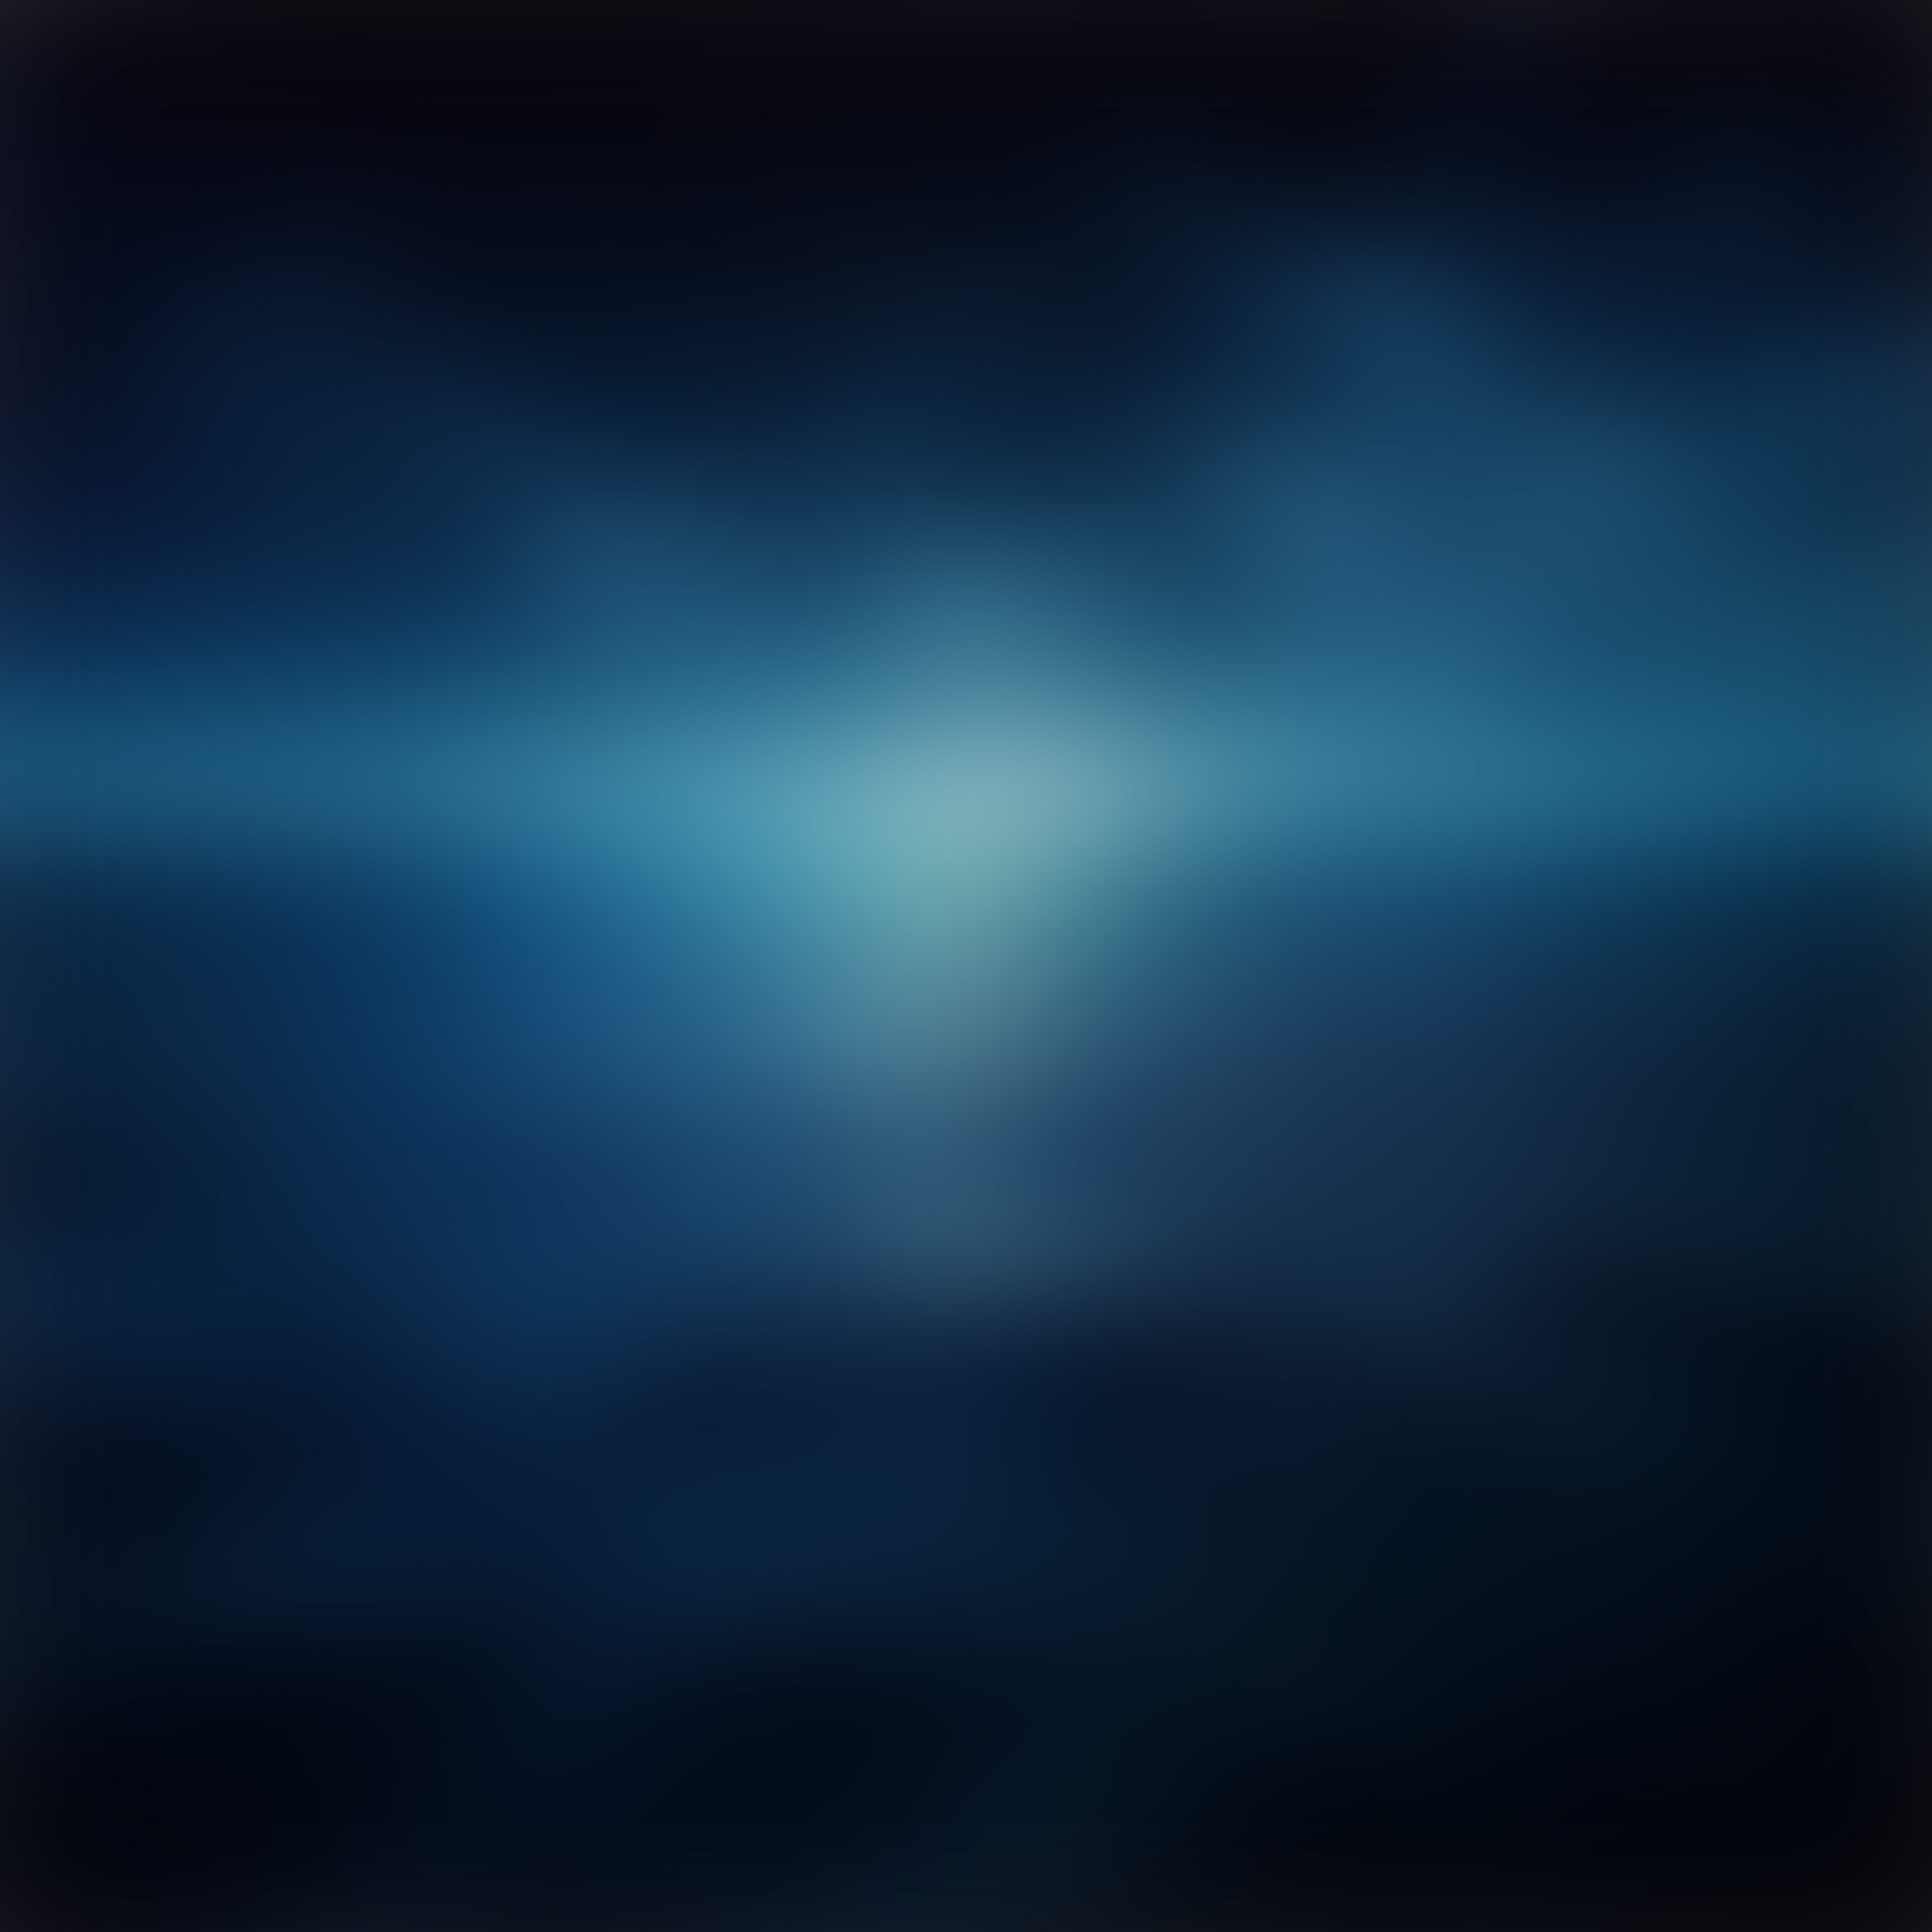
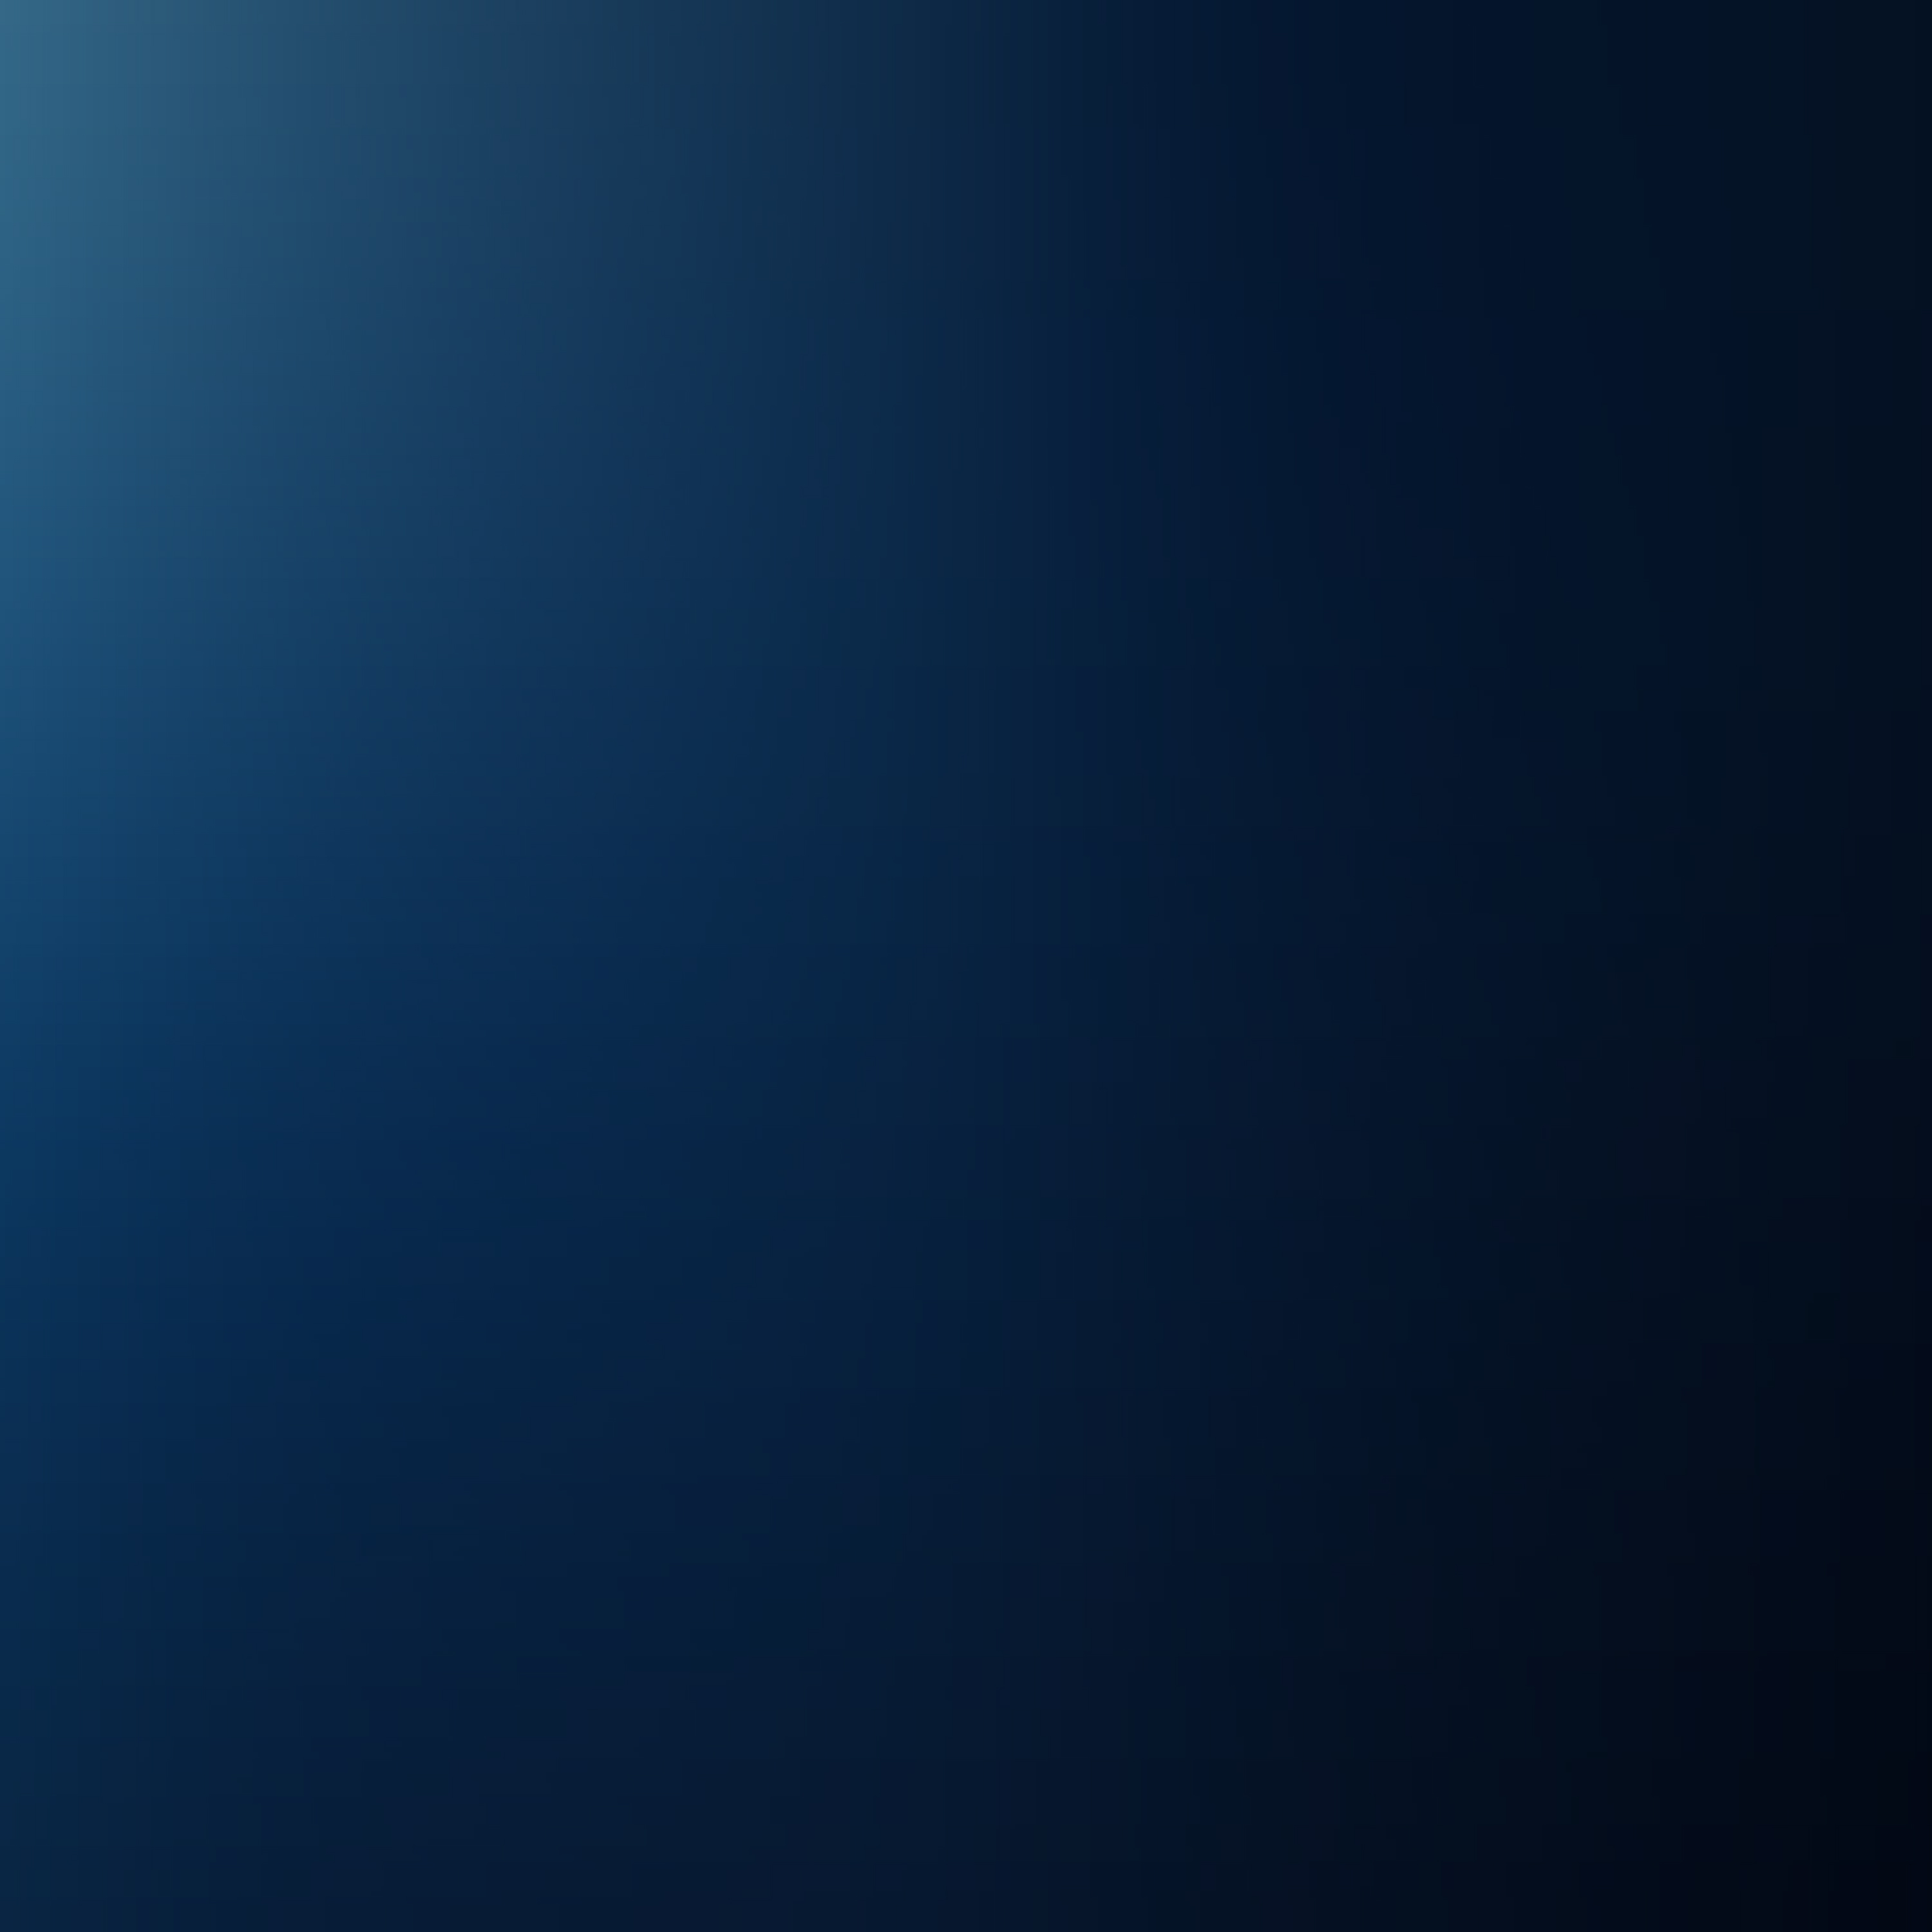
WIP | Project Structure Optimization | WIP

diff --git a/features/Timeline/HourStrip.tsx b/features/Timeline/HourStrip.tsx
@@ -34,6 +34,9 @@ import {
 } from '@/features/Timeline/constants';
 import { createStyles } from '@/features/Timeline/HourStrip.styles';
 
+const SIDE_PAD_ICON_HIDDEN_OFFSET = 10;
+const SIDE_PAD_ICON_REVEAL_DISTANCE = TIMELINE_EDGE_PULL_MAX - SIDE_PAD_ICON_HIDDEN_OFFSET;
+
 type TimelineHourStripProps = {
   x: SharedValue<number>;
   edgePull: SharedValue<number>;
@@ -191,13 +194,29 @@ function TimelineHourStripComponent({
     transform: [{ translateX: -x.value + edgePull.value }],
   }));
 
+  const leftSidePadIconStyle = useAnimatedStyle(() => ({
+    opacity: clamp(
+      (edgePull.value - SIDE_PAD_ICON_HIDDEN_OFFSET) / SIDE_PAD_ICON_REVEAL_DISTANCE,
+      0,
+      1
+    ),
+  }));
+
+  const rightSidePadIconStyle = useAnimatedStyle(() => ({
+    opacity: clamp(
+      (-edgePull.value - SIDE_PAD_ICON_HIDDEN_OFFSET) / SIDE_PAD_ICON_REVEAL_DISTANCE,
+      0,
+      1
+    ),
+  }));
+
   return (
     <GestureDetector gesture={pan}>
       <View style={styles.timelineViewport}>
         <Animated.View style={[styles.timelineContent, { width: timelineWidth }, animatedStyle]}>
 
           <View style={[styles.sidePad, styles.sidePadLeft, { width: sidePad }]}>
-            <Pressable onPress={onNavigateDayBackward} style={[styles.navBlock, styles.navBlockLeft]}>
+            <Pressable onPress={onNavigateDayBackward} style={[styles.navBlock, styles.navBlockLeft, { minWidth: sidePad * 2 }]}>
               <View style={styles.navBlockIconBox}>
                 <Arrow1
                   style={[styles.navArrow, styles.navArrowLeft]}
@@ -205,6 +224,23 @@ function TimelineHourStripComponent({
                 />
               </View>
             </Pressable>
+            <Animated.View
+              pointerEvents="none"
+              style={[styles.sidePadIconBox, { right: sidePad + 10 }, leftSidePadIconStyle]}
+            >
+              <Arrow1
+                style={[styles.navArrow, styles.navArrowLeft]}
+                fill={theme.text.warning}
+              />
+              <Arrow1
+                style={[styles.navArrow, styles.navArrowLeft]}
+                fill={theme.text.warning}
+              />
+              <Arrow1
+                style={[styles.navArrow, styles.navArrowLeft]}
+                fill={theme.text.warning}
+              />
+            </Animated.View>
           </View>
 
           {cells.map((cell) => (
@@ -246,7 +282,7 @@ function TimelineHourStripComponent({
           ))}
 
           <View style={[styles.sidePad, styles.sidePadRight, { width: sidePad }]}>
-            <Pressable onPress={onNavigateDayForward} style={[styles.navBlock, styles.navBlockRight]}>
+            <Pressable onPress={onNavigateDayForward} style={[styles.navBlock, styles.navBlockRight, { minWidth: sidePad * 2 }]}>
               <View style={styles.navBlockIconBox}>
                 <Arrow1
                   style={styles.navArrow}
@@ -254,6 +290,23 @@ function TimelineHourStripComponent({
                 />
               </View>
             </Pressable>
+            <Animated.View
+              pointerEvents="none"
+              style={[styles.sidePadIconBox, { left: sidePad + 10 }, rightSidePadIconStyle]}
+            >
+              <Arrow1
+                style={[styles.navArrow]}
+                fill={theme.text.warning}
+              />
+              <Arrow1
+                style={[styles.navArrow]}
+                fill={theme.text.warning}
+              />
+              <Arrow1
+                style={[styles.navArrow]}
+                fill={theme.text.warning}
+              />
+            </Animated.View>
           </View>
         </Animated.View>
       </View>

diff --git a/features/Cities/Cities.tsx b/features/Cities/Cities.tsx
@@ -29,6 +29,11 @@ import IconDelete1 from '@/assets/images/icon--delete-1.svg';
 import IconNotification2 from '@/assets/images/icon--notification-2.svg';
 import IconNotificationsMultiple from '@/assets/images/icon--notifications-multiple-1.svg';
 
+import IconDay from '@/assets/images/icon--day.svg';
+import IconNight from '@/assets/images/icon--night.svg';
+import IconMorning from '@/assets/images/icon--morning.svg';
+import IconEvening from '@/assets/images/icon--evening.svg';
+
 import IconAddCity from '@/assets/images/icon--cities--outlined.svg';
 import { createStyles } from './styles';
 
@@ -106,6 +111,32 @@ function getTimezoneOffset(timezone: string, sameLabel: string): string {
   const prefix = diffMinutes < 0 ? '-' : '+';
 
   return `${prefix}${wholeHours}:${mins.toString().padStart(2, '0')}`;
+}
+
+type DayPhase = 'morning' | 'day' | 'evening' | 'night';
+
+function getDayPhaseForTimezone(timezone: string): DayPhase {
+  const parts = new Intl.DateTimeFormat('en-US', {
+    timeZone: timezone,
+    hour: '2-digit',
+    hour12: false,
+  }).formatToParts(new Date());
+
+  const hour = parseInt(parts.find((part) => part.type === 'hour')?.value || '0', 10);
+
+  if (hour >= 5 && hour < 12) {
+    return 'morning';
+  }
+
+  if (hour >= 12 && hour < 18) {
+    return 'day';
+  }
+
+  if (hour >= 18 && hour < 22) {
+    return 'evening';
+  }
+
+  return 'night';
 }
 
 export default function Cities() {
@@ -227,6 +258,16 @@ export default function Cities() {
   ) => {
     const isActive = options?.isActive;
     const canDrag = Boolean(options?.draggable && sortState.cityOrder === 'none');
+    const dayPhase = getDayPhaseForTimezone(city.tz);
+
+    const TimePeriodIcon =
+      dayPhase === 'morning'
+        ? IconMorning
+        : dayPhase === 'day'
+          ? IconDay
+          : dayPhase === 'evening'
+            ? IconEvening
+            : IconNight;
 
     return (
       <Pressable
@@ -260,6 +301,12 @@ export default function Cities() {
             </Pressable>
           </Animated.View>
 
+          <View style={styles.cityItemTimePeriodIcon}>
+            <TimePeriodIcon
+              style={styles.cityItemTimePeriodIconSvg}
+              fill={theme.text.primary}
+            />
+          </View>
           <View style={styles.cityInfo}>
             <Text style={styles.cityName}>
               {getCityDisplayName(city, localizedCityNames[city.cityId])}

diff --git a/app/_layout.tsx b/app/_layout.tsx
@@ -2,7 +2,7 @@ import { useEffect } from 'react';
 import 'react-native-reanimated';
 import { Stack } from 'expo-router';
 import { StatusBar } from 'expo-status-bar';
-import { ImageBackground, Text, TextInput } from 'react-native';
+import { ImageBackground, Text, TextInput, View } from 'react-native';
 import { useFonts } from 'expo-font';
 import * as SplashScreen from 'expo-splash-screen';
 
@@ -66,15 +66,28 @@ function AppShell() {
       style={{ flex: 1 }}
       resizeMode="cover"
     >
-      <ThemeProvider value={navigationTheme}>
-        <Stack>
-          <Stack.Screen
-            name="(tabs)"
-            options={{ headerShown: false }}
-          />
-        </Stack>
-        <StatusBar style={statusBarStyle} />
-      </ThemeProvider>
+      <View
+        pointerEvents="none"
+        style={{
+          position: 'absolute',
+          top: 0,
+          right: 0,
+          bottom: 0,
+          left: 0,
+          backgroundColor: theme.overlay.medium,
+        }}
+      />
+      <View style={{ flex: 1 }}>
+        <ThemeProvider value={navigationTheme}>
+          <Stack>
+            <Stack.Screen
+              name="(tabs)"
+              options={{ headerShown: false }}
+            />
+          </Stack>
+          <StatusBar style={statusBarStyle} />
+        </ThemeProvider>
+      </View>
     </ImageBackground>
   );
 }

diff --git a/features/Timeline/HourStrip.styles.ts b/features/Timeline/HourStrip.styles.ts
@@ -13,19 +13,33 @@ export function createStyles(theme: UiTheme) {
     },
     sidePad: {
       flexDirection: 'row',
-      alignItems: 'center'
+      alignItems: 'center',
+      position: 'relative',
     },
     sidePadLeft: {
       paddingRight: 5,
+      justifyContent: 'flex-end',
+    },
+    sidePadIconBox: {
+      width: 64,
+      height: 64,
+      position: 'absolute',
+      top: 0,
+      flexDirection: 'row',
+      alignItems: 'center',
+      justifyContent: 'center',
+      gap: 5
     },
     sidePadRight: {
       paddingLeft: 5,
+      justifyContent: 'flex-start',
     },
     navBlock: {
       flexDirection: 'row',
       backgroundColor: theme.surface.fieldStrong,
       height: 64,
       flex: 1,
+      borderCurve: 'continuous',
     },
     navBlockLeft: {
       justifyContent: 'flex-end',

diff --git a/features/Timeline/LocalReferenceStrip.styles.ts b/features/Timeline/LocalReferenceStrip.styles.ts
@@ -13,7 +13,17 @@ export function createStyles(theme: UiTheme) {
     },
     sidePad: {
       flexDirection: 'row',
-      alignItems: 'center'
+      alignItems: 'center',
+      position: 'relative',
+    },
+    sidePadRubberPlaceholder: {
+      borderTopWidth: 1,
+      borderBottomWidth: 1,
+      borderColor: theme.border.muted,
+      position: 'absolute',
+      top: 0,
+      height: '100%',
+      width: '100%',
     },
     sidePadLeft: {
       paddingRight: 5,
@@ -28,6 +38,7 @@ export function createStyles(theme: UiTheme) {
       borderColor: theme.border.muted,
       height: 24,
       flex: 1,
+      position: 'relative',
     },
     navBlockLeft: {
       justifyContent: 'flex-end',

diff --git a/features/Cities/styles.ts b/features/Cities/styles.ts
@@ -92,6 +92,18 @@ export function createStyles(theme: UiTheme) {
     cityInfo: {
       flex: 1,
     },
+    cityItemTimePeriodIcon: {
+      width: 20,
+      height: 20,
+      marginRight: 10,
+      alignItems: 'center',
+      justifyContent: 'center',
+      flexShrink: 0,
+    },
+    cityItemTimePeriodIconSvg: {
+      width: 18,
+      height: 18,
+    },
     cityName: {
       fontSize: 16,
       fontWeight: '700',

diff --git a/features/Notifications/Notifications.tsx b/features/Notifications/Notifications.tsx
@@ -1223,7 +1223,9 @@ export default function Notifications() {
                   draftSortState.groupByCity && styles.sortPickerItemTextActive,
                 ]}
               >
-                {t('notifications.groupByCity')}
+                {draftSortState.groupByCity
+                  ? t('notifications.ungroup')
+                  : t('notifications.groupByCity')}
               </Text>
             </Pressable>
           </View>

diff --git a/features/Timeline/LocalReferenceStrip.tsx b/features/Timeline/LocalReferenceStrip.tsx
@@ -225,6 +225,8 @@ function LocalReferenceStripComponent({
                 {sideDates.previous}
               </Text>
             </Pressable>
+
+            <View style={[styles.sidePadRubberPlaceholder, { right: sidePad }]} />
           </View>
 
           {cells.map((cell) => (
@@ -261,6 +263,8 @@ function LocalReferenceStripComponent({
                 fill={theme.text.warning}
               />
             </Pressable>
+
+            <View style={[styles.sidePadRubberPlaceholder, { left: sidePad }]} />
           </View>
         </Animated.View>
       </View>

diff --git a/constants/theme-light.ts b/constants/theme-light.ts
@@ -17,7 +17,7 @@ export const themeLight: UiTheme = {
   },
   overlay: {
     strong: 'rgba(62, 63, 86, 0.9)',
-    medium: 'rgba(62, 63, 86, 0.4)',
+    medium: 'rgba(62, 63, 86, 0.3)',
   },
   surface: {
     transparent: 'rgba(62, 63, 86, 0)',